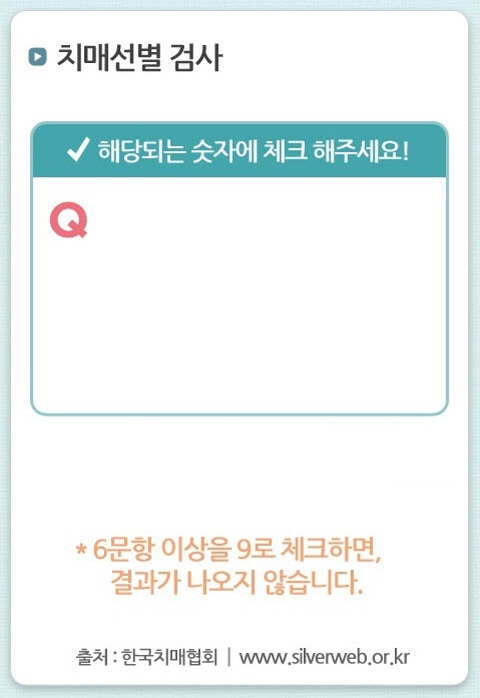
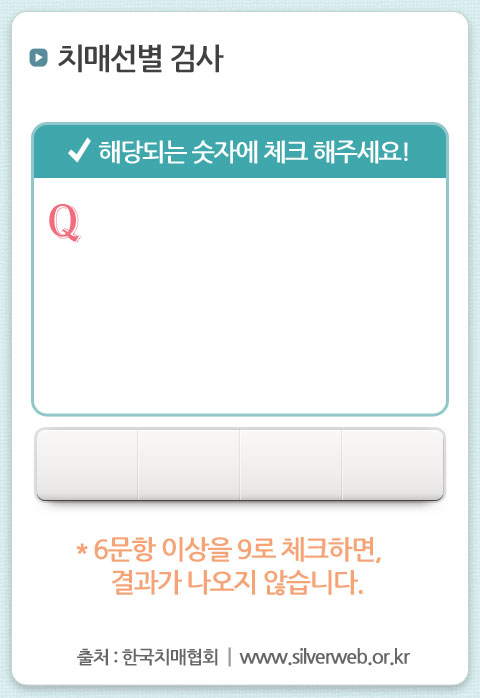
dev

diff --git a/index.html b/index.html
@@ -16,46 +16,22 @@
 	<!-- 스타일 -->
     <style>
          
-         #btnNoti,#btnCheck01{
-         	margin-top : -4px;
-         	margin-bottom : -4px;
-         }
+         #btnNoti,#btnCheck01{         	margin-top : -4px;         	margin-bottom : -4px;         }
          
-         #btnCheck,#btnOrg,#imgCheck02{
-         	margin-bottom : -4px;
-         } 
+         #imgCheckQ01{         	margin-top : -29px;         	margin-bottom : -4px;         }
          
-         #checkContents{
-         	position: absolute;
-         	top: 30%;
-         	left: 20%;
-         	width: 70%;
-         }
+         #imgCheckR01{         	margin-top : -4px;         	margin-bottom : -4px;         }
          
-         #btnZero{
-         	position: absolute;
-         	top: 61%;
-         	left: 7%;
-         	width: 20%;
-         }
-         #btnOne{
-         	position: absolute;
-         	top: 61%;
-         	left: 27%;
-         	width: 20%;
-         }
-         #btnTwo{
-         	position: absolute;
-         	top: 61%;
-         	left: 47%;
-         	width: 20%;
-         }
-         #btnNine{
-         	position: absolute;
-         	top: 61%;
-         	left: 67%;
-         	width: 20%;
-         }
+         #btnCheck,#btnOrg,#imgCheck02,#imgCheckR02,#btnCheckR01,#imgCheckR03{         	margin-bottom : -4px;         } 
+         
+         #checkContents{         	position: absolute;         	top: 30%;         	left: 20%;         	width: 70%;         }
+         
+         #btnZero{         	position: absolute;        	top: 65%;         	left: 14%;         	width: 10%;       margin-bottom : -4px;  }
+         #btnOne{         	position: absolute;         	top: 65%;         	left: 35%;         	width: 10%;       margin-bottom : -4px;  }
+         #btnTwo{         	position: absolute;         	top: 65%;         	left: 55%;         	width: 10%;       margin-bottom : -4px;  }
+         #btnNine{         	position: absolute;         	top: 65%;         	left: 77%;         	width: 10%;       margin-bottom : -4px;  }
+         
+         #resultScore{         	position: absolute;         	top: 19%;         	left: 42%;         }
     </style>	
 	
 </head>
@@ -141,21 +117,22 @@
 		<div data-role="header"   style="background:url(./img/bg_header.jpg);" >
 		    <a id="aHomeCheckQuestion" data-icon="home">홈</a><!-- 화면방향때문에 뒤로가기 처리 함. 상세화면은?  -->
 		    <a href="#" data-icon="back" data-rel="back"  >이전</a>
-			<h1>위치알람</h1>	
+			<h1>자가진단</h1>	
 		</div>
-		
-		<img src="./img/img_check_q_01.jpg"  width="100%" title="해당되는 숫자에 체크해주세요">
-		<img id="btnZero" src="./img/btn_check_q_zero.jpg"  title="0">
-		<img id="btnOne" src="./img/btn_check_q_one.jpg"  title="1">
-		<img id="btnTwo" src="./img/btn_check_q_two.jpg"  title="2">
-		<img id="btnNine" src="./img/btn_check_q_nine.jpg"  title="9" >
 		<!-- 내용-->
 		<div data-role="content" >
 			<div id="checkContents" >
 				해당되는 숫에 체크 해주세요~!
 				*6개 문항을 9로 체크하면 결과가 나오지 않습니다.
-			</div>		
+			</div>	
+			
+			<img id="btnZero" src="./img/btn_check_q_zero.jpg"  title="0">
+			<img id="btnOne" src="./img/btn_check_q_one.jpg"  title="1">
+			<img id="btnTwo" src="./img/btn_check_q_two.jpg"  title="2">
+			<img id="btnNine" src="./img/btn_check_q_nine.jpg"  title="9" >	
 		</div>
+		<img id="imgCheckQ01" src="./img/img_check_q_01.jpg"  width="100%" title="해당되는 숫자에 체크해주세요">
+		
 		
 		<!-- 푸터-->
 		<!--div data-role="footer" data-position="fixed">
@@ -173,28 +150,29 @@
 
 	<!-- 결과화면 start -->
 
-	<div id="resultView" data-role="page"  >
+	<div id="checkResult" data-role="page"  >
 	
 		<!-- 헤더-->
 		<div data-role="header"  data-position="fixed"  style="background:url(./img/bg_header.jpg);" >   
 			<a id="aHomeCheckResult" data-icon="home" >홈</a>
-			<h1>자가진단 결과 </h1>
+			<h1>자가진단</h1>
 	 	</div>
+	 	<div id="resultScore"></div>
+		<img id="imgCheckR01" src="./img/img_check_r_01.jpg"    width="100%"  title="치매선별검사결과"> 
+		<img id="imgCheckR02" src="./img/img_check_r_02_1.jpg"    width="100%"  title="결과설명">
+		<img id="btnCheckR01" src="./img/btn_check_r_01.jpg"    width="100%"  title="다시하기">
+		<img id="imgCheckR03" src="./img/img_check_r_03.jpg"    width="100%"  title="출처:한국치매협회">
 	 	<!-- 내용-->
-		<div data-role="content" >
+		<!--div data-role="content" >
 			<p>결과는 </p>
 	 		<div id="resultSentence">
 			</div>
-		</div>
+		</div-->
 		
-		<!-- 푸터-->
-		<div data-role="footer" data-position="fixed"  style="background:url(./img/bg_header.png);" >
-			<a href="#" data-icon="back" data-rel="back"  >다시검사하기</a>
-		</div>	
 	</div>	
 	<!-- 결과화면 end -->
 	
-		
+		http://localhost:8080/WGM/img/img_check_r_02_3.jpg
 	<!-- 기관정보목록 페이지 start -->
 	<div id="org_list" data-role="page"  >	
 

diff --git a/js/lofunc.js b/js/lofunc.js
@@ -40,16 +40,6 @@ var question=[
               ];
 var idxStatus = 0;
 
-var result1=[
-            '일번. 합계가   ',
-            '이번. 합계가  .'
-            ];
-var result2=[
-             ' 점 입니다. ',
-             ' 점 입니다.'
-             ];
-var idx = 0;
-
 //----------------------------------------------------------------------
 //----------------------------------------------------------------------
 // 이벤트 처리
@@ -118,7 +108,7 @@ $(function(){
 		readNext();
 	});
 	//자가진단결과화면 버튼 (다시검사하기)-------------------------------
-	$ ("#btnCheckRetry").bind( "tap" , function(event){
+	$ ("#btnCheckR01").bind( "tap" , function(event){
 		goCheckStart();
 	});
 	
@@ -172,44 +162,36 @@ function goCheckStart(){
 }
 
 //자가진단화면 버튼 이벤트 (검사결과)-------------------------------
-function showResult1(score){
-	idx=0;
-	var res1 = result1[idx];
-	var res2 = result2[idx];
-	$.mobile.changePage("#resultView" ) ;
-	$('#resultSentence').html("<h3>"+res1+score+res2+"</h3>");	
-}
-
-function showResult2(){
-	idx=1;
-	var res1 = result1[idx];
-	var res2 = result2[idx];
-	$.mobile.changePage("#resultView" ) ;
-	$('#resultSentence').html("<h3>"+res1+score+res2+"</h3>");	
+function showResult(score){
+	$('#resultScore').html("<h1><font color='#669999'>"+score+"</font></h1>");   
+	
+	if(score <4){
+		$('#imgCheckR02').attr('src', "./img/img_check_r_02_1.jpg");
+	}
+	else if(score>9){
+		$('#imgCheckR02').attr('src', "./img/img_check_r_02_3.jpg");
+	}
+	else{
+		$('#imgCheckR02').attr('src', "./img/img_check_r_02_2.jpg");
+	}
+	$.mobile.changePage("#checkResult" ) ;
+	
 }
 
 //----------------------------------------------------------------------
 //다음버튼 
 //----------------------------------------------------------------------
 function readNext(){
-	if (idxStatus==5&&score==0){
-		showResult1(score);
+	if (idxStatus==7){
+		showResult(score);
+		return;
 	}
-	if (idxStatus==5&&score>0){
-		showResult2(score);
-	}
+	
 	var ques = question[idxStatus];
-	$('#checkContents').html("<h3>"+ques+"</h3>");
+	$('#checkContents').html("<h2><font color='666666'><b>"+ques+"</b></font></h2>");
 	idxStatus++;
 }	
 
-/*
-function readNext(){
-	idxStatus++;
-	var ques = question[idxStatus];
-	$('#checkContents').html("<h3>"+ques+"</h3>");
-}
-*/
 
 //----------------------------------------------------------------------
 //맵 위치정보 세팅
